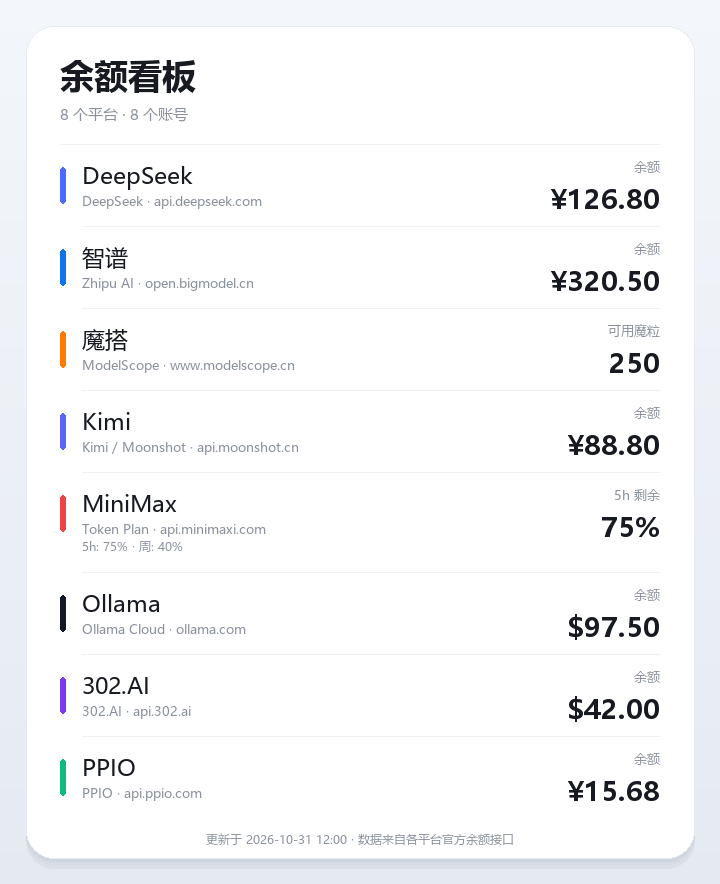
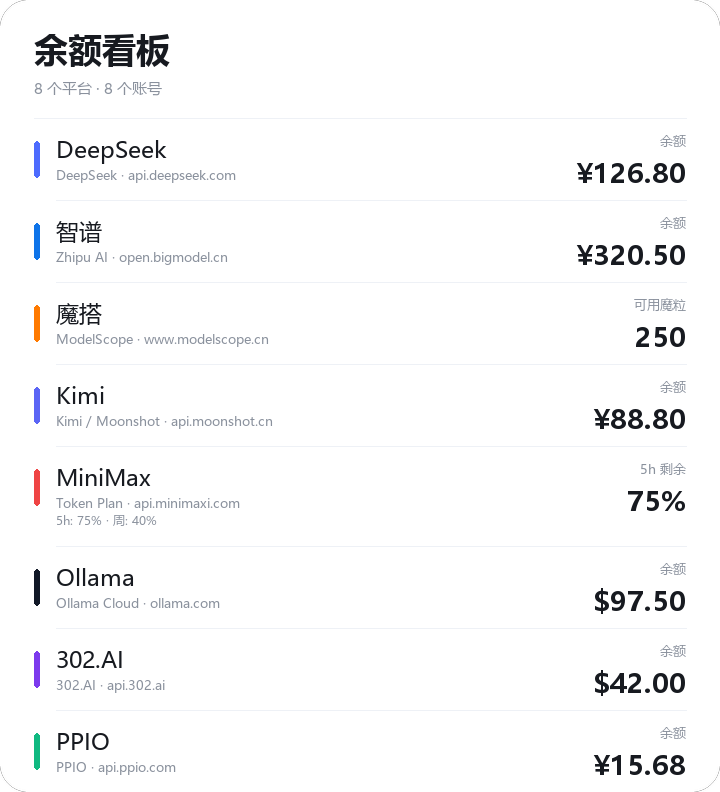
feat: render a transparent full-bleed card without footer

diff --git a/src/render.py b/src/render.py
@@ -19,18 +19,13 @@ from .providers import PROVIDER_ORDER
 
 TITLE = "余额看板"
 WIDTH = 720
-PAGE_PAD = 26
 CARD_PAD_X = 34
 CARD_RADIUS = 28
 HEADER_HEIGHT = 118
 ROW_HEIGHT = 82
 ROW_HEIGHT_EXTRA = 100
-FOOTER_HEIGHT = 40
 
-BG_TOP = (243, 246, 250)
-BG_BOTTOM = (229, 234, 242)
 CARD = (255, 255, 255)
-CARD_BORDER = (230, 234, 240)
 INK = (23, 26, 32)
 MUTED = (138, 145, 157)
 LINE = (238, 241, 246)
@@ -135,10 +130,10 @@ def build_rows(results: list[AccountResult]) -> list[Row]:
     return rows
 
 
-def render_signature(rows: list[Row], *, title: str, subtitle: str, footer: str) -> str:
+def render_signature(rows: list[Row], *, title: str, subtitle: str) -> str:
     """Return a stable fingerprint of everything that ends up in the image."""
 
-    parts = [title, subtitle, footer]
+    parts = [title, subtitle]
     for row in rows:
         red, green, blue = row.color
         parts.append(
@@ -208,76 +203,48 @@ def _ellipsize(
     return f"{trimmed}…"
 
 
-def _vertical_gradient(size: tuple[int, int]) -> Image.Image:
-    width, height = size
-    top, bottom = BG_TOP, BG_BOTTOM
-    strip = Image.new("RGB", (1, height))
-    pixels = strip.load()
-    assert pixels is not None
-    for y in range(height):
-        ratio = y / max(1, height - 1)
-        pixels[0, y] = tuple(
-            round(top[channel] + (bottom[channel] - top[channel]) * ratio) for channel in range(3)
-        )
-    return strip.resize((width, height))
-
-
 def render_rows(
     rows: list[Row],
     *,
     title: str = TITLE,
     subtitle: str = "",
-    footer: str = "",
     output: str | os.PathLike[str] | None = None,
     cache: ImageCache | None = None,
 ) -> str:
-    """Draw *rows* into a PNG file and return its path.
+    """Draw *rows* into a transparent, full-bleed PNG card and return its path.
 
     With a *cache* and no explicit *output*, an image whose content matches an
     earlier render is returned as is, which skips the Pillow drawing entirely.
     """
 
     subtitle = subtitle or f"共 {len(rows)} 个账号"
-    footer = footer or "数据来自各平台官方余额接口，仅供参考"
 
     cache_key: str | None = None
     if output is None and cache is not None:
-        cache_key = render_signature(rows, title=title, subtitle=subtitle, footer=footer)
+        cache_key = render_signature(rows, title=title, subtitle=subtitle)
         cached = cache.get(cache_key)
         if cached is not None:
             return cached
 
     row_heights = [ROW_HEIGHT_EXTRA if row.extra else ROW_HEIGHT for row in rows]
-    card_height = HEADER_HEIGHT + sum(row_heights) + FOOTER_HEIGHT
-    image_height = card_height + PAGE_PAD * 2
+    image_height = HEADER_HEIGHT + sum(row_heights)
 
-    image = _vertical_gradient((WIDTH, image_height))
-
-    left = PAGE_PAD
-    top = PAGE_PAD
-    right = WIDTH - PAGE_PAD
-    bottom = image_height - PAGE_PAD
-
-    # Soft drop shadow behind the card.
-    shadow = Image.new("RGBA", image.size, (0, 0, 0, 0))
-    shadow_draw = ImageDraw.Draw(shadow)
-    for offset, alpha in ((10, 14), (6, 20), (3, 28)):
-        shadow_draw.rounded_rectangle(
-            (left, top + offset, right, bottom + offset),
-            radius=CARD_RADIUS,
-            fill=(32, 42, 58, alpha),
-        )
-    image = Image.alpha_composite(image.convert("RGBA"), shadow).convert("RGB")
+    # The card fills the whole canvas; only the rounded corners stay transparent.
+    image = Image.new("RGBA", (WIDTH, image_height), (0, 0, 0, 0))
+    scale = 4
+    mask = Image.new("L", (WIDTH * scale, image_height * scale), 0)
+    ImageDraw.Draw(mask).rounded_rectangle(
+        (0, 0, WIDTH * scale - 1, image_height * scale - 1),
+        radius=CARD_RADIUS * scale,
+        fill=255,
+    )
+    mask = mask.resize((WIDTH, image_height), Image.LANCZOS)
+    image.paste(Image.new("RGBA", (WIDTH, image_height), (*CARD, 255)), (0, 0), mask)
     draw = ImageDraw.Draw(image)
 
-    draw.rounded_rectangle(
-        (left, top, right, bottom),
-        radius=CARD_RADIUS,
-        fill=CARD,
-        outline=CARD_BORDER,
-        width=1,
-    )
-
+    left = 0
+    top = 0
+    right = WIDTH
     x0 = left + CARD_PAD_X
     x1 = right - CARD_PAD_X
 
@@ -345,15 +312,6 @@ def render_rows(
             draw.line((x0 + 22, y + row_height, x1, y + row_height), fill=LINE, width=1)
         y += row_height
 
-    footer_font = _font(12)
-    footer_width = draw.textlength(footer, font=footer_font)
-    draw.text(
-        ((WIDTH - footer_width) / 2, y + 13),
-        footer,
-        font=footer_font,
-        fill=MUTED,
-    )
-
     if output is None:
         fd, temp_name = tempfile.mkstemp(prefix=_TEMP_PREFIX, suffix=".png")
         os.close(fd)
@@ -381,33 +339,9 @@ def _prune_temp_files(directory: Path, max_age: float = 3600.0) -> None:
             continue
 
 
-def data_fetched_at(results: list[AccountResult], now: float | None = None) -> float:
-    """Return the moment the data shown on the card was fetched.
-
-    Reusing a cached image must not make the footer lie, so the timestamp comes
-    from the snapshots themselves: the newest ``fetched_at`` among them, which
-    TTL-cached successes keep from their original fetch. ``now`` is accepted for
-    tests and for callers that want to pin the timestamp explicitly.
-    """
-
-    if now is not None:
-        return now
-
-    stamps = [result.balance.fetched_at for result in results if result.balance is not None]
-    return max(stamps) if stamps else time.time()
-
-
-def report_footer(results: list[AccountResult], now: float | None = None) -> str:
-    """Build the card footer, which reports when the data was fetched."""
-
-    timestamp = time.strftime("%Y-%m-%d %H:%M", time.localtime(data_fetched_at(results, now)))
-    return f"更新于 {timestamp} · 数据来自各平台官方余额接口"
-
-
 def render_report(
     results: list[AccountResult],
     *,
-    now: float | None = None,
     cache: ImageCache | None = None,
 ) -> str:
     """Render a full report (used by the plugin) and return the image path."""
@@ -418,9 +352,4 @@ def render_report(
     if failed:
         subtitle += f" · {failed} 个查询失败"
 
-    return render_rows(
-        build_rows(results),
-        subtitle=subtitle,
-        footer=report_footer(results, now),
-        cache=cache,
-    )
+    return render_rows(build_rows(results), subtitle=subtitle, cache=cache)

diff --git a/tests/test_render.py b/tests/test_render.py
@@ -17,12 +17,10 @@ from src.format import format_report
 from src.models import AccountResult, BalanceSnapshot
 from src.render import (
     build_rows,
-    data_fetched_at,
     format_money,
     format_units,
     render_report,
     render_rows,
-    report_footer,
 )
 
 
@@ -165,7 +163,7 @@ class RenderTests(unittest.TestCase):
             _success("modelscope", "https://www.modelscope.cn", "魔搭", "249.5", "魔粒", "魔粒"),
         ]
 
-        path = render_report(results, now=0)
+        path = render_report(results)
         try:
             self.assertTrue(os.path.exists(path))
             with Image.open(path) as image:
@@ -187,12 +185,31 @@ class RenderTests(unittest.TestCase):
             )
         ]
 
-        path = render_report(results, now=0)
+        path = render_report(results)
         try:
             self.assertTrue(os.path.exists(path))
             with Image.open(path) as image:
                 self.assertEqual(image.format, "PNG")
                 self.assertEqual(image.width, 720)
+        finally:
+            os.unlink(path)
+
+    def test_render_fills_canvas_with_transparent_corners(self) -> None:
+        results = [
+            _success("deepseek", "https://api.deepseek.com", "DeepSeek", "126.80", "CNY", "余额"),
+            _success("modelscope", "https://www.modelscope.cn", "魔搭", "249.5", "魔粒", "魔粒"),
+        ]
+
+        path = render_report(results)
+        try:
+            with Image.open(path) as image:
+                self.assertEqual(image.mode, "RGBA")
+                self.assertEqual(image.width, 720)
+                self.assertEqual(image.height, 282)
+                for corner in ((0, 0), (719, 0), (0, 281), (719, 281)):
+                    self.assertEqual(image.getpixel(corner)[3], 0)
+                self.assertEqual(image.getpixel((360, 0))[3], 255)
+                self.assertEqual(image.getpixel((360, 281))[3], 255)
         finally:
             os.unlink(path)
 
@@ -227,66 +244,6 @@ class RenderTests(unittest.TestCase):
         self.assertNotIn("冻结", text)
 
 
-class FooterTests(unittest.TestCase):
-    """The footer reports when the data was fetched, not when it was drawn."""
-
-    @staticmethod
-    def _at(text: str) -> float:
-        return time.mktime(time.strptime(text, "%Y-%m-%d %H:%M"))
-
-    def test_newest_fetch_time_wins(self) -> None:
-        results = [
-            _success(
-                "deepseek",
-                "https://api.deepseek.com",
-                "DeepSeek",
-                "1",
-                "CNY",
-                "余额",
-                fetched_at=self._at("2026-01-02 03:04"),
-            ),
-            _success(
-                "zhipu",
-                "https://open.bigmodel.cn",
-                "智谱",
-                "2",
-                "CNY",
-                "余额",
-                fetched_at=self._at("2026-01-02 05:06"),
-            ),
-        ]
-
-        self.assertEqual(data_fetched_at(results), self._at("2026-01-02 05:06"))
-        self.assertEqual(
-            report_footer(results),
-            "更新于 2026-01-02 05:06 · 数据来自各平台官方余额接口",
-        )
-
-    def test_explicit_now_overrides_fetch_times(self) -> None:
-        results = [
-            _success(
-                "deepseek",
-                "https://api.deepseek.com",
-                "DeepSeek",
-                "1",
-                "CNY",
-                "余额",
-                fetched_at=self._at("2026-01-02 03:04"),
-            )
-        ]
-
-        pinned = self._at("2027-07-08 09:10")
-
-        self.assertEqual(data_fetched_at(results, now=pinned), pinned)
-        self.assertIn("更新于 2027-07-08 09:10", report_footer(results, now=pinned))
-
-    def test_failed_results_fall_back_to_the_current_time(self) -> None:
-        account = _account("deepseek", "https://api.deepseek.com", "DeepSeek")
-        results = [AccountResult(account=account, error=AuthError("API Key 无效。", code="401"))]
-
-        self.assertLessEqual(abs(data_fetched_at(results) - time.time()), 5.0)
-
-
 class ReportCacheTests(unittest.TestCase):
     """The rendered PNG is reused while the query results stay identical."""
 
@@ -295,7 +252,6 @@ class ReportCacheTests(unittest.TestCase):
         self.addCleanup(self._directory.cleanup)
         self._cache = ImageCache(4)
         self._rendered: list[str] = []
-        self._now = time.mktime(time.strptime("2026-01-02 03:04", "%Y-%m-%d %H:%M"))
 
     def tearDown(self) -> None:
         for path in self._rendered:
@@ -309,7 +265,7 @@ class ReportCacheTests(unittest.TestCase):
         ]
 
     def _render(self, results: list[AccountResult], cache: ImageCache | None = None) -> str:
-        path = render_report(results, now=self._now, cache=self._cache if cache is None else cache)
+        path = render_report(results, cache=self._cache if cache is None else cache)
         self._rendered.append(path)
         return path
 
@@ -360,7 +316,7 @@ class ReportCacheTests(unittest.TestCase):
         self.assertNotEqual(first, second)
         self.assertEqual(len(disabled), 0)
 
-    def test_later_fetch_time_renders_a_new_image(self) -> None:
+    def test_later_fetch_time_reuses_the_image(self) -> None:
         fetched_at = time.mktime(time.strptime("2026-01-02 03:04", "%Y-%m-%d %H:%M"))
 
         def result(stamp: float) -> list[AccountResult]:
@@ -380,13 +336,13 @@ class ReportCacheTests(unittest.TestCase):
         second = render_report(result(fetched_at + 60), cache=self._cache)
         self._rendered.extend([first, second])
 
-        self.assertNotEqual(first, second)
+        self.assertEqual(first, second)
 
     def test_explicit_output_is_never_replaced_by_a_hit(self) -> None:
         target = os.path.join(self._directory.name, "explicit.png")
         rows = build_rows(self._results())
 
-        written = render_rows(rows, footer="固定页脚", output=target, cache=self._cache)
+        written = render_rows(rows, output=target, cache=self._cache)
 
         self.assertEqual(written, target)
         self.assertTrue(os.path.exists(target))

diff --git a/src/constants.py b/src/constants.py
@@ -4,7 +4,7 @@ from __future__ import annotations
 
 PLUGIN_NAME = "astrbot_plugin_balance_board"
 PLUGIN_DISPLAY_NAME = "余额看板"
-PLUGIN_VERSION = "1.2.0"
+PLUGIN_VERSION = "1.2.1"
 PLUGIN_AUTHOR = "星见千夜"
 REPO_URL = "https://github.com/HoshimiSenya/astrbot_plugin_balance_board"
 

diff --git a/CONTRIBUTING.md b/CONTRIBUTING.md
@@ -87,7 +87,7 @@ feat: discover keys from a new provider config shape
 fix: dedupe equivalent balance endpoints with trailing paths
 docs: update provider key links
 test: cover modelscope available balance
-chore: polish rendered card footer
+chore: polish rendered card layout
 ```
 
 ## Pull requests

diff --git a/CHANGELOG.md b/CHANGELOG.md
@@ -1,5 +1,12 @@
 # 更新日志
 
+## 1.2.1 - 2026-11-02
+
+### 变更
+
+- 渲染卡片改为透明背景并铺满整张图片，移除底部「更新于」页脚小字。
+- 图片缓存指纹不再包含页脚，相同内容仍可继续复用缓存。
+
 ## 1.2.0 - 2026-11-01
 
 ### 新增
